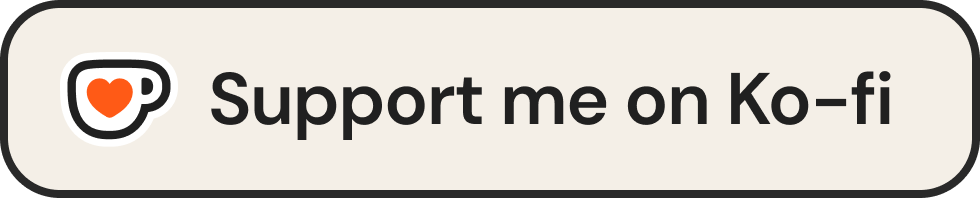
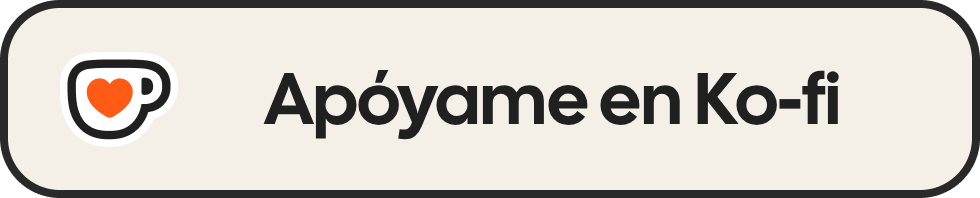
feat: remove intro description and adjust margin for improved layout

Changed region(s): [[0.2143, 0.3333, 0.9184, 0.7273]]

diff --git a/popup/popup.html b/popup/popup.html
@@ -48,9 +48,6 @@
         utilidades para el DM y mucho más. Todo desde un mismo lugar y sin
         complicaciones.
       </div>
-      <div class="intro-description">
-        Explorá todas las características disponibles más abajo.
-      </div>
       <div class="intro-actions">
         <a
           class="discord-button"

diff --git a/popup/style.css b/popup/style.css
@@ -63,7 +63,7 @@ body {
   flex-direction: column;
   align-items: center;
   gap: 12px;
-  margin-top: 8px;
+  margin-top: 72px;
 }
 
 .discord-button {